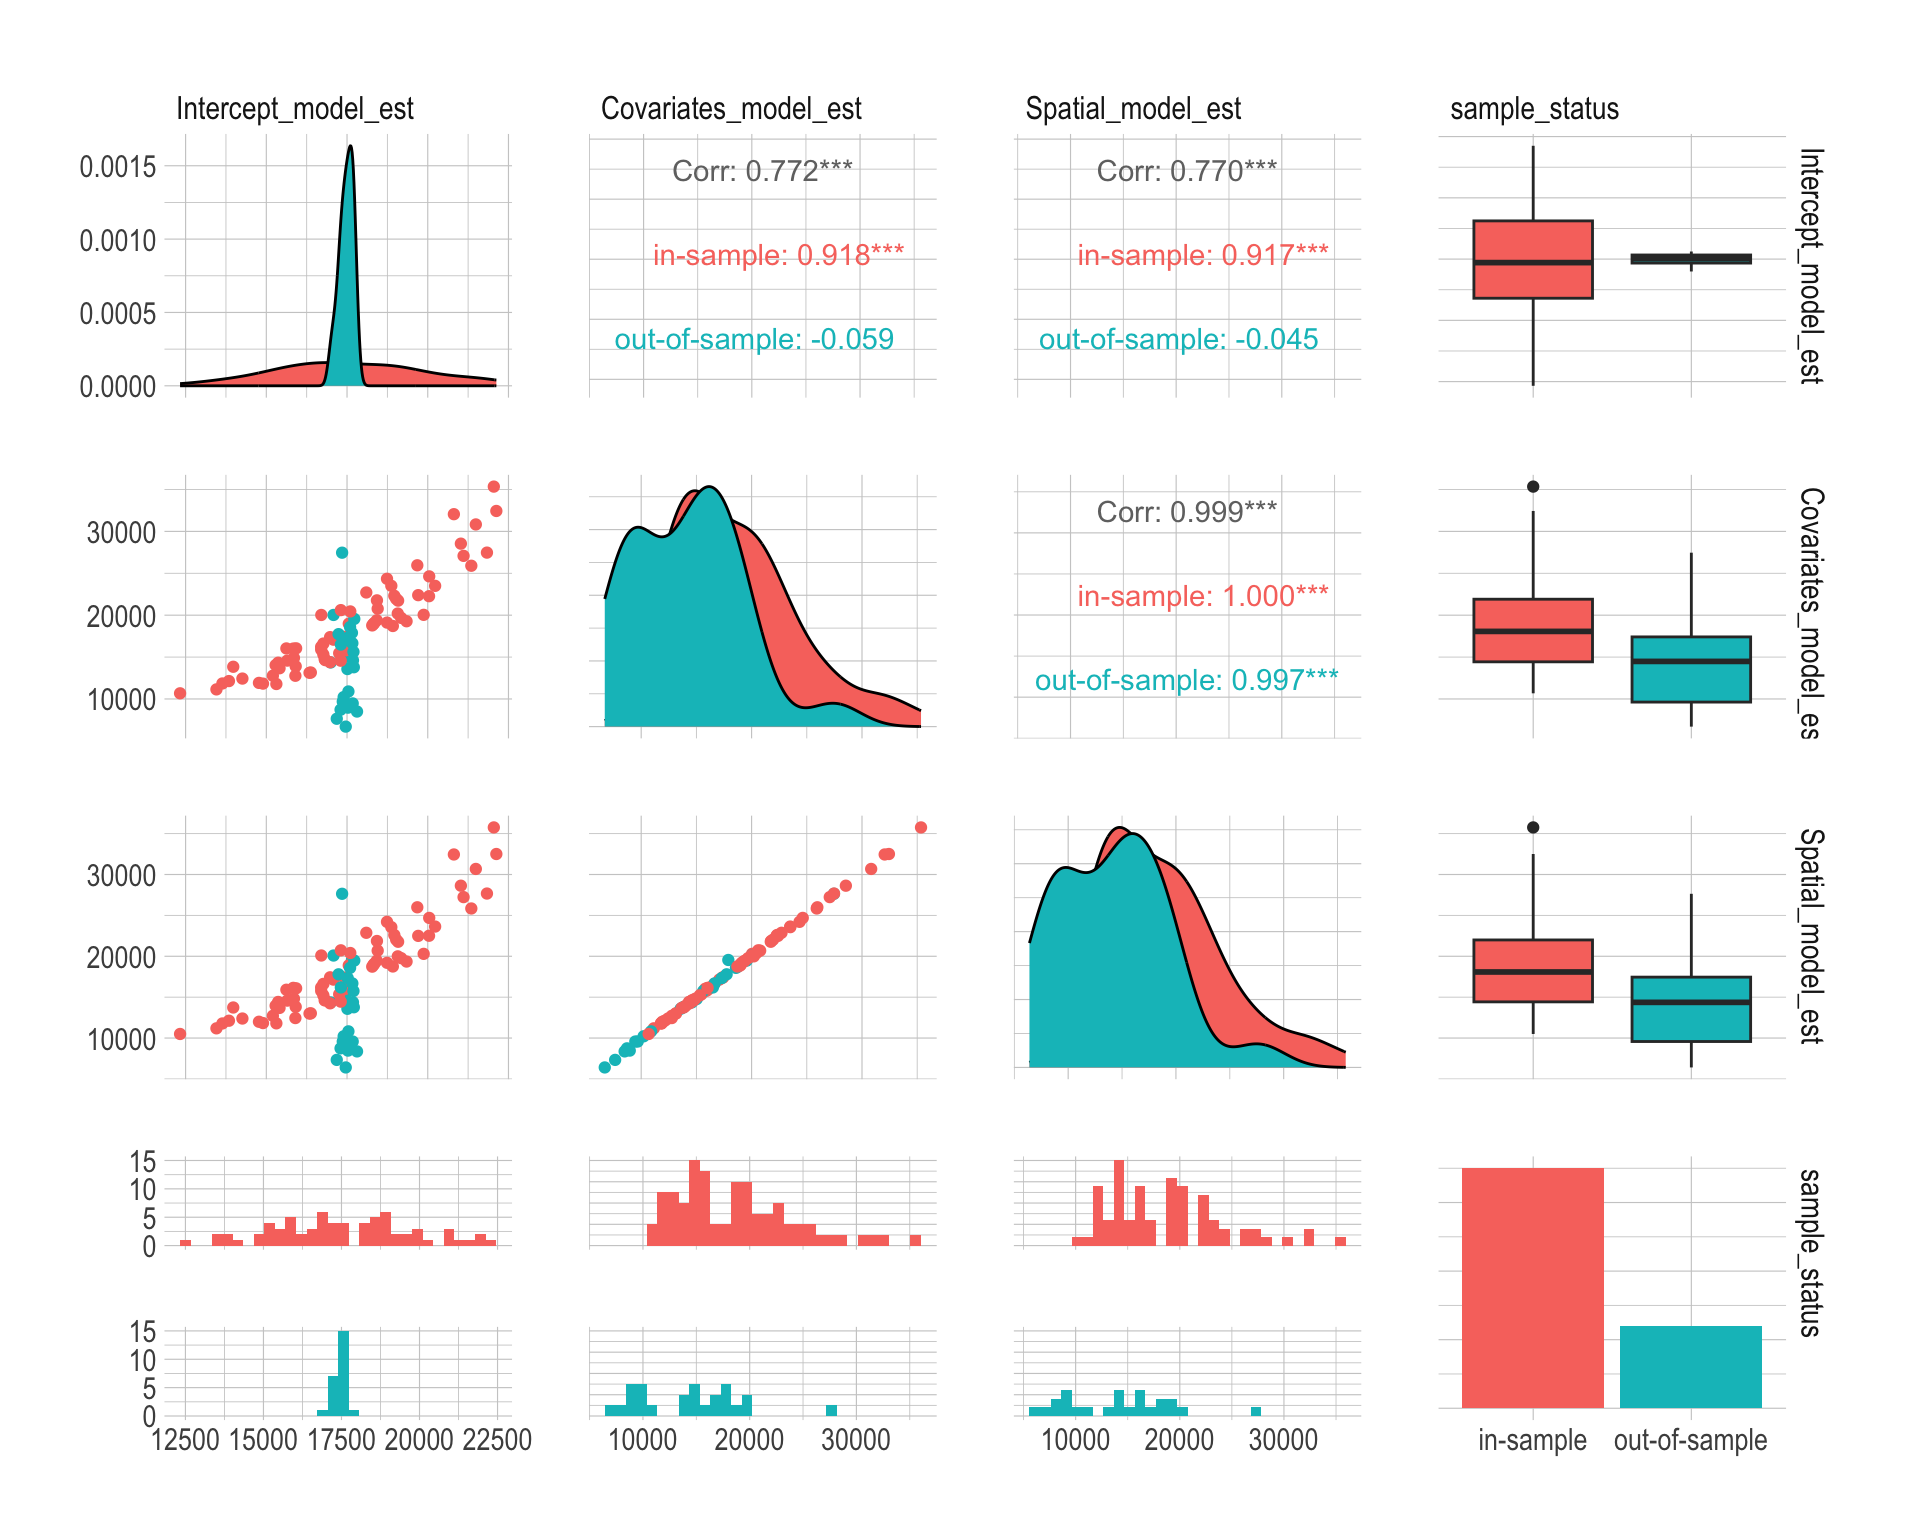
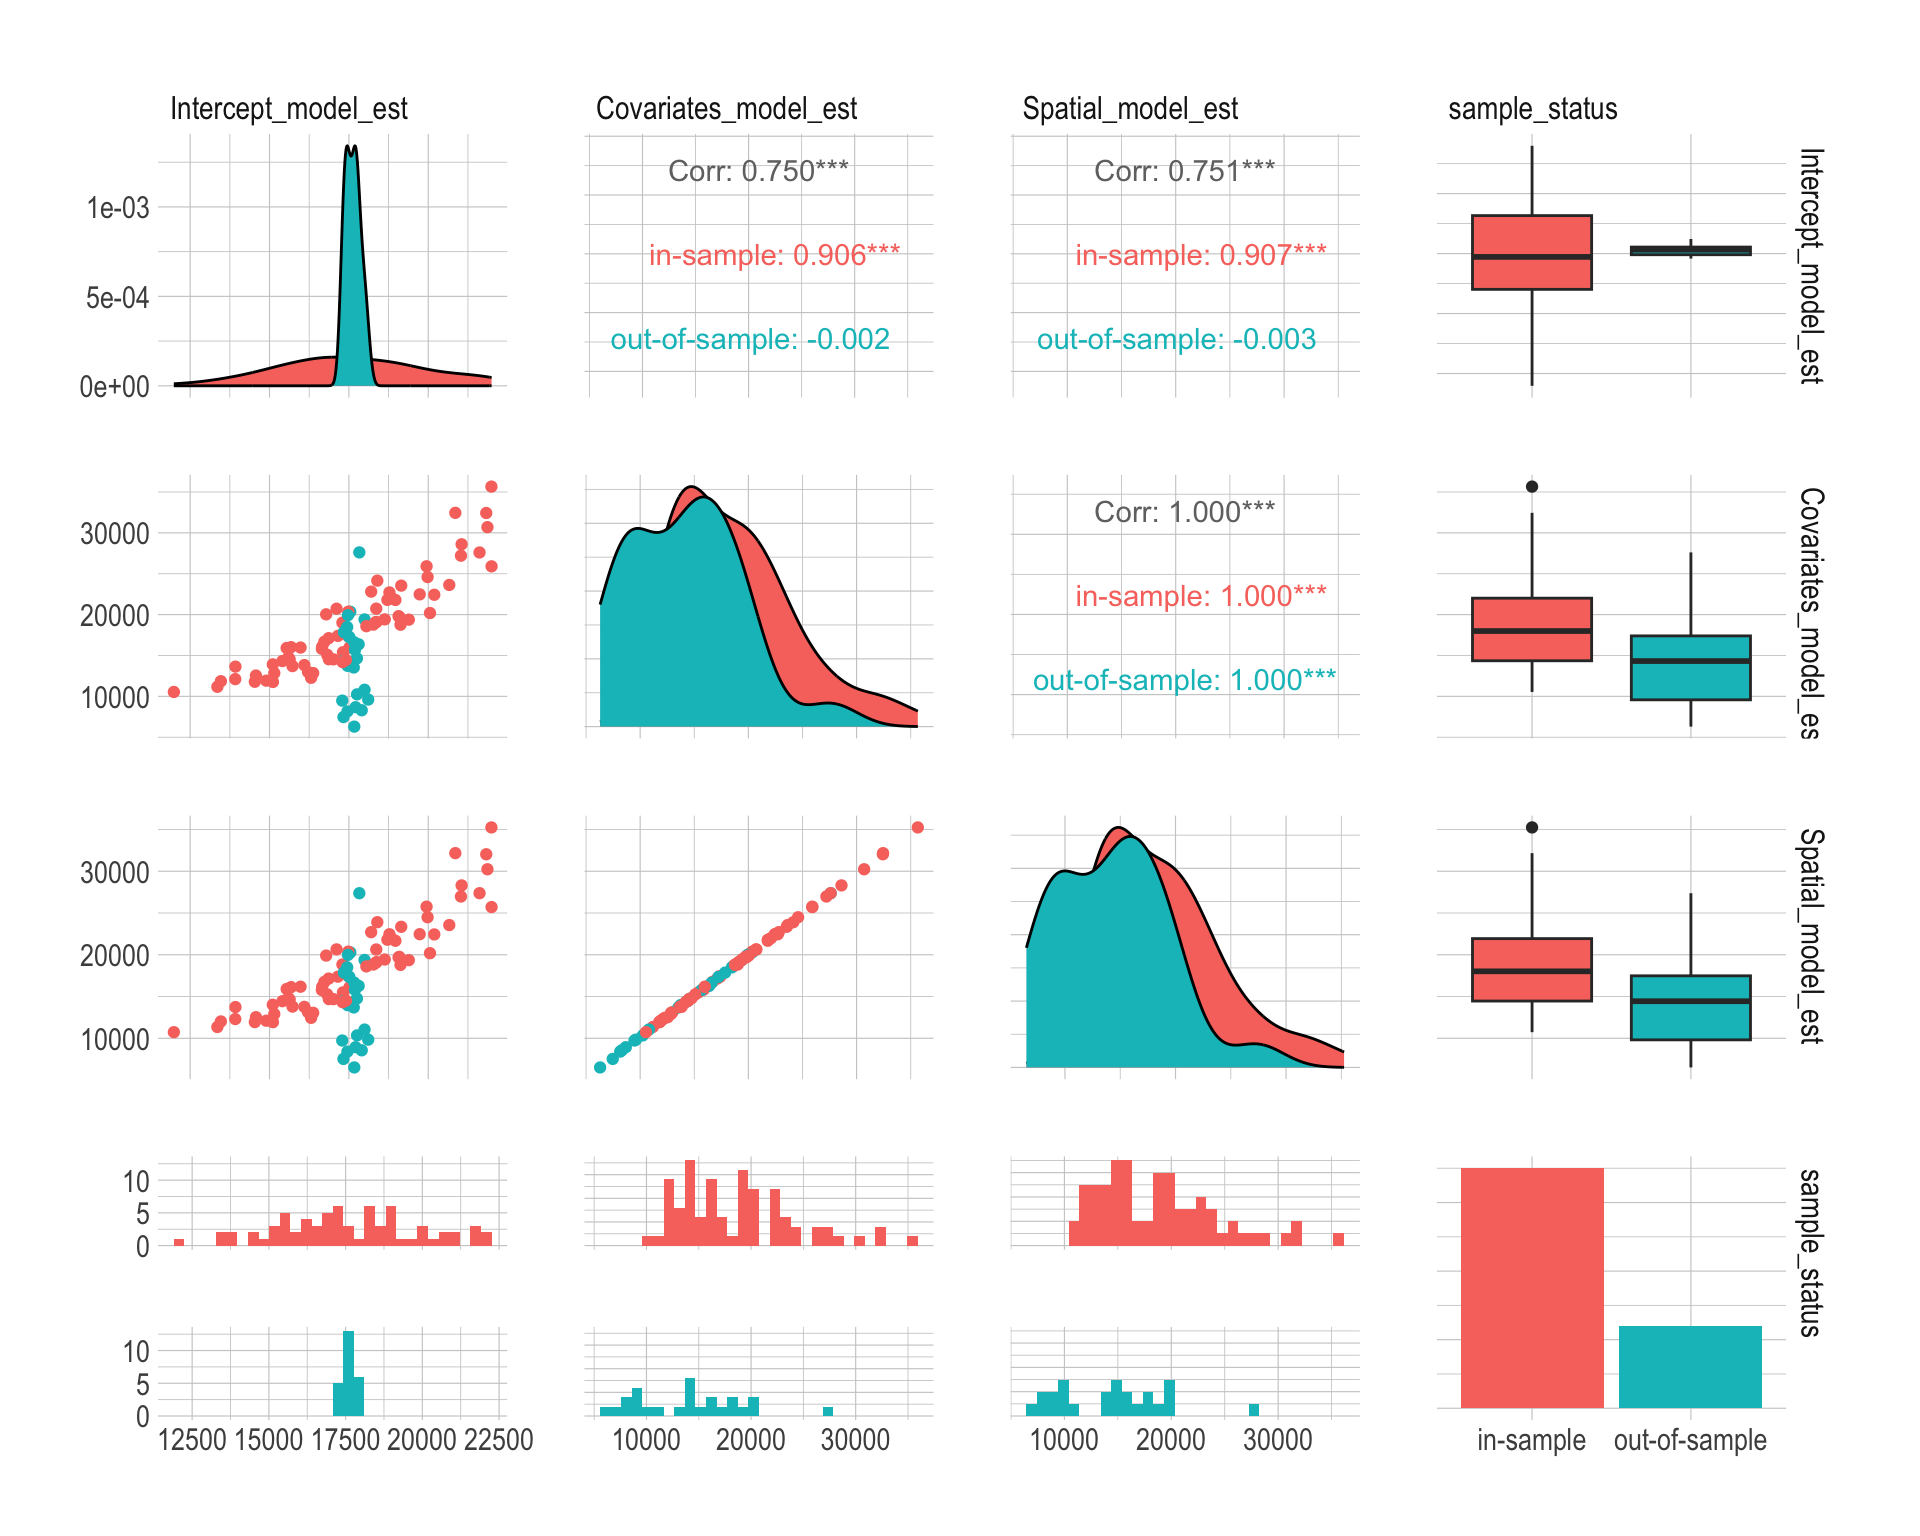
improve plots visuals

diff --git a/docs/index.html b/docs/index.html
@@ -533,19 +533,19 @@ dir_est, :</code></pre>
 <span id="cb17-13"><a href="#cb17-13" aria-hidden="true" tabindex="-1"></a><span class="fu">head</span>(area_level_intercept)</span></code><button title="Copy to Clipboard" class="code-copy-button"><i class="bi"></i></button></pre></div>
 <div class="cell-output cell-output-stdout">
 <pre><code>               domain     mean   median      var     lower    upper
-1           Amstetten 16378.91 16323.93  4717184 11945.151 20459.69
-2               Baden 19873.67 19924.70  6454809 15180.140 24871.55
-3             Bludenz 14259.42 14229.88  4424999 10102.995 18202.73
-4      Braunau am Inn 13842.18 13860.01  4390438  9502.705 17531.68
-5             Bregenz 21489.24 21230.91 10657657 15929.321 28401.50
-6 Bruck an der Leitha 20039.93 20104.94  8059641 14754.013 25814.77
+1           Amstetten 16213.12 16348.21  4625217 12022.249 20153.43
+2               Baden 20054.65 19798.27  7274329 14841.422 25454.30
+3             Bludenz 14572.76 14681.82  4726881 10430.998 18855.47
+4      Braunau am Inn 13921.33 13998.72  4188108  9587.288 17914.98
+5             Bregenz 21864.51 21743.33 10931672 15941.118 28407.61
+6 Bruck an der Leitha 19730.80 19869.56  8263195 13994.290 25433.32
                  method       se
-1 Area level model: IID 2171.908
-2 Area level model: IID 2540.632
-3 Area level model: IID 2103.568
-4 Area level model: IID 2095.337
-5 Area level model: IID 3264.607
-6 Area level model: IID 2838.951</code></pre>
+1 Area level model: IID 2150.632
+2 Area level model: IID 2697.096
+3 Area level model: IID 2174.139
+4 Area level model: IID 2046.487
+5 Area level model: IID 3306.308
+6 Area level model: IID 2874.577</code></pre>
 </div>
 </div>
 </section>
@@ -595,19 +595,19 @@ Generating estimates for all domains in X.domain.</code></pre>
 <span id="cb22-13"><a href="#cb22-13" aria-hidden="true" tabindex="-1"></a><span class="fu">head</span>(area_level_covariates)</span></code><button title="Copy to Clipboard" class="code-copy-button"><i class="bi"></i></button></pre></div>
 <div class="cell-output cell-output-stdout">
 <pre><code>               domain     mean   median       var    lower    upper
-1           Amstetten 13158.36 13101.01  747723.6 11655.78 15044.50
-2               Baden 20040.80 20117.58 1139368.0 18042.58 22067.84
-3             Bludenz 12435.32 12429.39 1092236.8 10578.99 14396.55
-4      Braunau am Inn 12137.13 12189.62  605718.7 10384.44 13584.39
-5             Bregenz 30831.74 30745.29 2710478.6 27901.72 34210.84
-6 Bruck an der Leitha 22267.52 22266.25 1716354.8 19607.98 24999.68
+1           Amstetten 12979.27 12942.30  929111.6 11349.43 14947.11
+2               Baden 20192.65 20111.05 1208362.9 18255.47 22444.21
+3             Bludenz 12543.64 12649.02 1091334.4 10567.52 14537.44
+4      Braunau am Inn 12109.37 12134.09  765955.5 10228.05 13620.45
+5             Bregenz 30698.44 30652.26 3003361.5 27491.23 34043.90
+6 Bruck an der Leitha 22478.44 22312.12 1803420.9 19956.16 25350.31
                  method        se
-1 Area level model: IID  864.7101
-2 Area level model: IID 1067.4118
-3 Area level model: IID 1045.1013
-4 Area level model: IID  778.2793
-5 Area level model: IID 1646.3531
-6 Area level model: IID 1310.0972</code></pre>
+1 Area level model: IID  963.9044
+2 Area level model: IID 1099.2556
+3 Area level model: IID 1044.6695
+4 Area level model: IID  875.1889
+5 Area level model: IID 1733.0209
+6 Area level model: IID 1342.9151</code></pre>
 </div>
 </div>
 </section>
@@ -650,20 +650,20 @@ Generating estimates for all domains in X.domain.</code></pre>
 <span id="cb27-11"><a href="#cb27-11" aria-hidden="true" tabindex="-1"></a></span>
 <span id="cb27-12"><a href="#cb27-12" aria-hidden="true" tabindex="-1"></a><span class="fu">head</span>(area_level_spatial)</span></code><button title="Copy to Clipboard" class="code-copy-button"><i class="bi"></i></button></pre></div>
 <div class="cell-output cell-output-stdout">
-<pre><code>               domain     mean   median       var     lower    upper
-1           Amstetten 13024.40 13013.72  828094.8 11325.440 14875.62
-2               Baden 20294.83 20348.41 1106521.6 18220.576 22342.40
-3             Bludenz 12387.67 12448.06 1452068.7  9942.193 14347.82
-4      Braunau am Inn 12119.02 12108.93  684352.3 10543.039 13625.06
-5             Bregenz 30680.08 30615.31 3349245.4 27286.320 34601.69
-6 Bruck an der Leitha 22510.31 22402.44 1725824.0 20024.205 24982.12
+<pre><code>               domain     mean   median       var    lower    upper
+1           Amstetten 13127.00 13121.19  756104.1 11258.93 14699.98
+2               Baden 20188.54 20182.52 1034996.5 18424.37 22296.13
+3             Bludenz 12527.42 12594.82 1390834.4 10173.22 14438.48
+4      Braunau am Inn 12302.06 12327.51  618613.5 10744.07 13873.55
+5             Bregenz 30237.26 30252.97 2951017.0 26950.22 33279.31
+6 Bruck an der Leitha 22465.58 22471.45 1709202.4 20045.12 24947.29
                   method        se
-1 Area level model: BYM2  909.9971
-2 Area level model: BYM2 1051.9133
-3 Area level model: BYM2 1205.0181
-4 Area level model: BYM2  827.2559
-5 Area level model: BYM2 1830.0944
-6 Area level model: BYM2 1313.7062</code></pre>
+1 Area level model: BYM2  869.5425
+2 Area level model: BYM2 1017.3478
+3 Area level model: BYM2 1179.3364
+4 Area level model: BYM2  786.5199
+5 Area level model: BYM2 1717.8524
+6 Area level model: BYM2 1307.3647</code></pre>
 </div>
 </div>
 </section>
@@ -851,11 +851,13 @@ Generating estimates for all domains in X.domain.</code></pre>
 <span id="cb33-40"><a href="#cb33-40" aria-hidden="true" tabindex="-1"></a>  <span class="fu">theme_minimal</span>()</span>
 <span id="cb33-41"><a href="#cb33-41" aria-hidden="true" tabindex="-1"></a></span>
 <span id="cb33-42"><a href="#cb33-42" aria-hidden="true" tabindex="-1"></a><span class="co"># Combine plots</span></span>
-<span id="cb33-43"><a href="#cb33-43" aria-hidden="true" tabindex="-1"></a>(int_vs_true <span class="sc">|</span> cov_vs_true <span class="sc">|</span> spa_vs_true)</span></code><button title="Copy to Clipboard" class="code-copy-button"><i class="bi"></i></button></pre></div>
+<span id="cb33-43"><a href="#cb33-43" aria-hidden="true" tabindex="-1"></a>(int_vs_true) <span class="sc">/</span></span>
+<span id="cb33-44"><a href="#cb33-44" aria-hidden="true" tabindex="-1"></a>(cov_vs_true) <span class="sc">/</span></span>
+<span id="cb33-45"><a href="#cb33-45" aria-hidden="true" tabindex="-1"></a>(spa_vs_true)</span></code><button title="Copy to Clipboard" class="code-copy-button"><i class="bi"></i></button></pre></div>
 <div class="cell-output-display">
 <div>
 <figure class="figure">
-<p><img src="index_files/figure-html/unnamed-chunk-17-1.png" class="img-fluid figure-img" width="672"></p>
+<p><img src="index_files/figure-html/unnamed-chunk-17-1.png" class="img-fluid figure-img" width="768"></p>
 </figure>
 </div>
 </div>
@@ -929,19 +931,19 @@ y_{id} = \mathbf{x}_{id}^\top \boldsymbol{\beta} + u_d + \epsilon_{id}
 <span id="cb34-48"><a href="#cb34-48" aria-hidden="true" tabindex="-1"></a><span class="fu">head</span>(unit_level)</span></code><button title="Copy to Clipboard" class="code-copy-button"><i class="bi"></i></button></pre></div>
 <div class="cell-output cell-output-stdout">
 <pre><code>               domain     mean   median     var     lower    upper
-1           Amstetten 13513.45 13515.26 1668999 11113.627 16254.31
-2               Baden 19855.06 19724.07 1496359 17593.615 22300.32
-3             Bludenz 10380.15 10254.50 2975297  7123.010 14210.83
-4      Braunau am Inn 11390.55 11372.71 2084303  8878.953 14310.16
-5             Bregenz 30106.24 30116.11 2057371 27104.651 32542.07
-7 Bruck an der Leitha 21355.89 21362.81 2109705 18636.675 24216.13
+1           Amstetten 13542.66 13628.65 1920844 10872.223 16022.00
+2               Baden 19825.15 19853.26 1619623 17269.410 22291.76
+3             Bludenz 10477.80 10485.12 3662103  6681.409 14094.78
+4      Braunau am Inn 11322.02 11304.42 2005957  8664.738 14411.44
+5             Bregenz 30105.50 30208.13 1758580 27449.457 32617.07
+7 Bruck an der Leitha 21166.66 20969.99 2213222 18341.163 24175.56
                   method       se
-1 Unit level model: BYM2 1291.898
-2 Unit level model: BYM2 1223.258
-3 Unit level model: BYM2 1724.905
-4 Unit level model: BYM2 1443.712
-5 Unit level model: BYM2 1434.354
-7 Unit level model: BYM2 1452.482</code></pre>
+1 Unit level model: BYM2 1385.945
+2 Unit level model: BYM2 1272.644
+3 Unit level model: BYM2 1913.662
+4 Unit level model: BYM2 1416.318
+5 Unit level model: BYM2 1326.114
+7 Unit level model: BYM2 1487.690</code></pre>
 </div>
 </div>
 </section>
